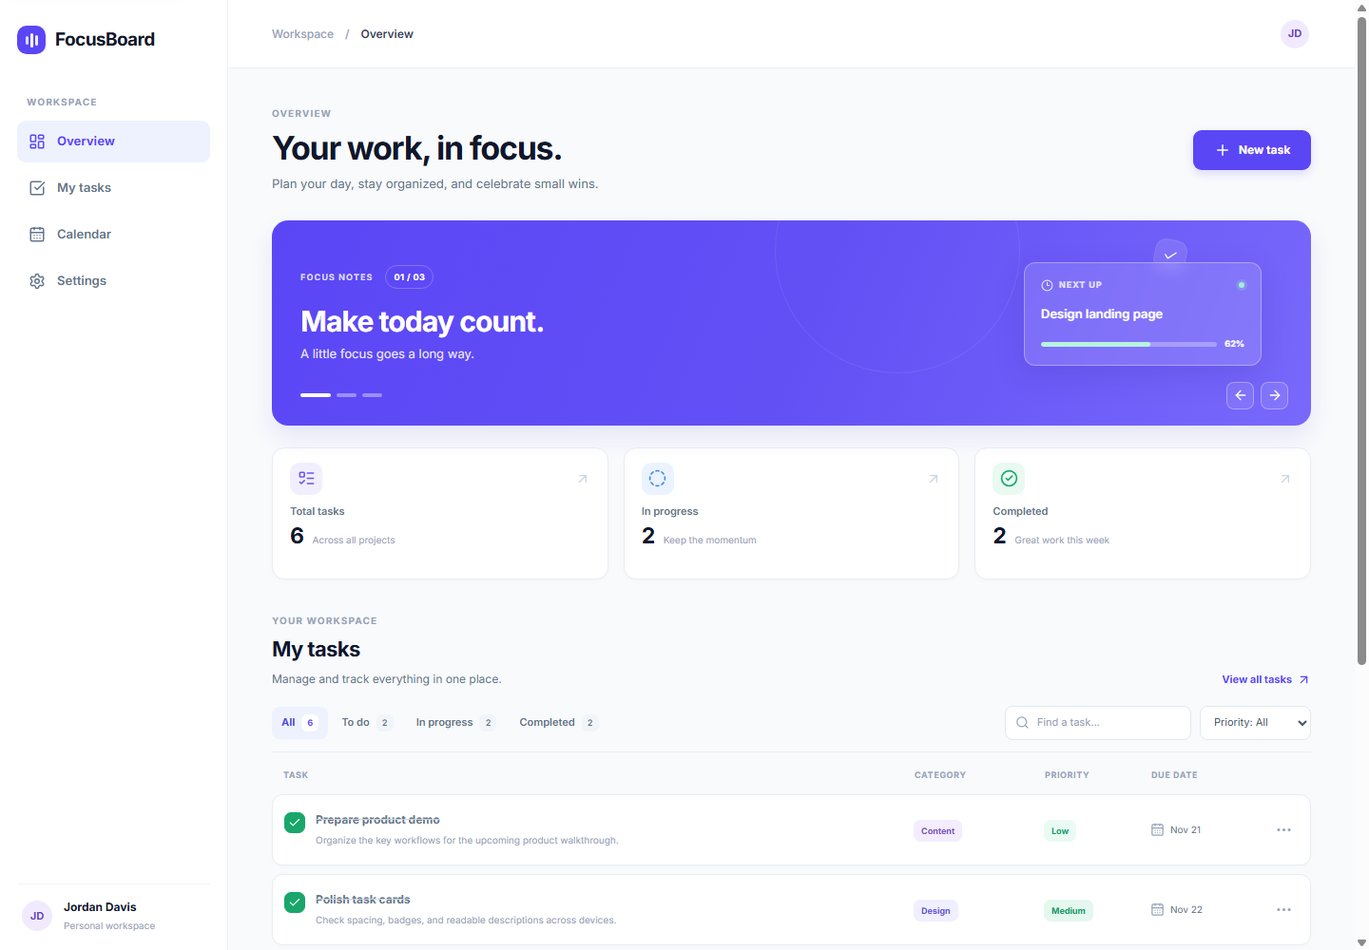
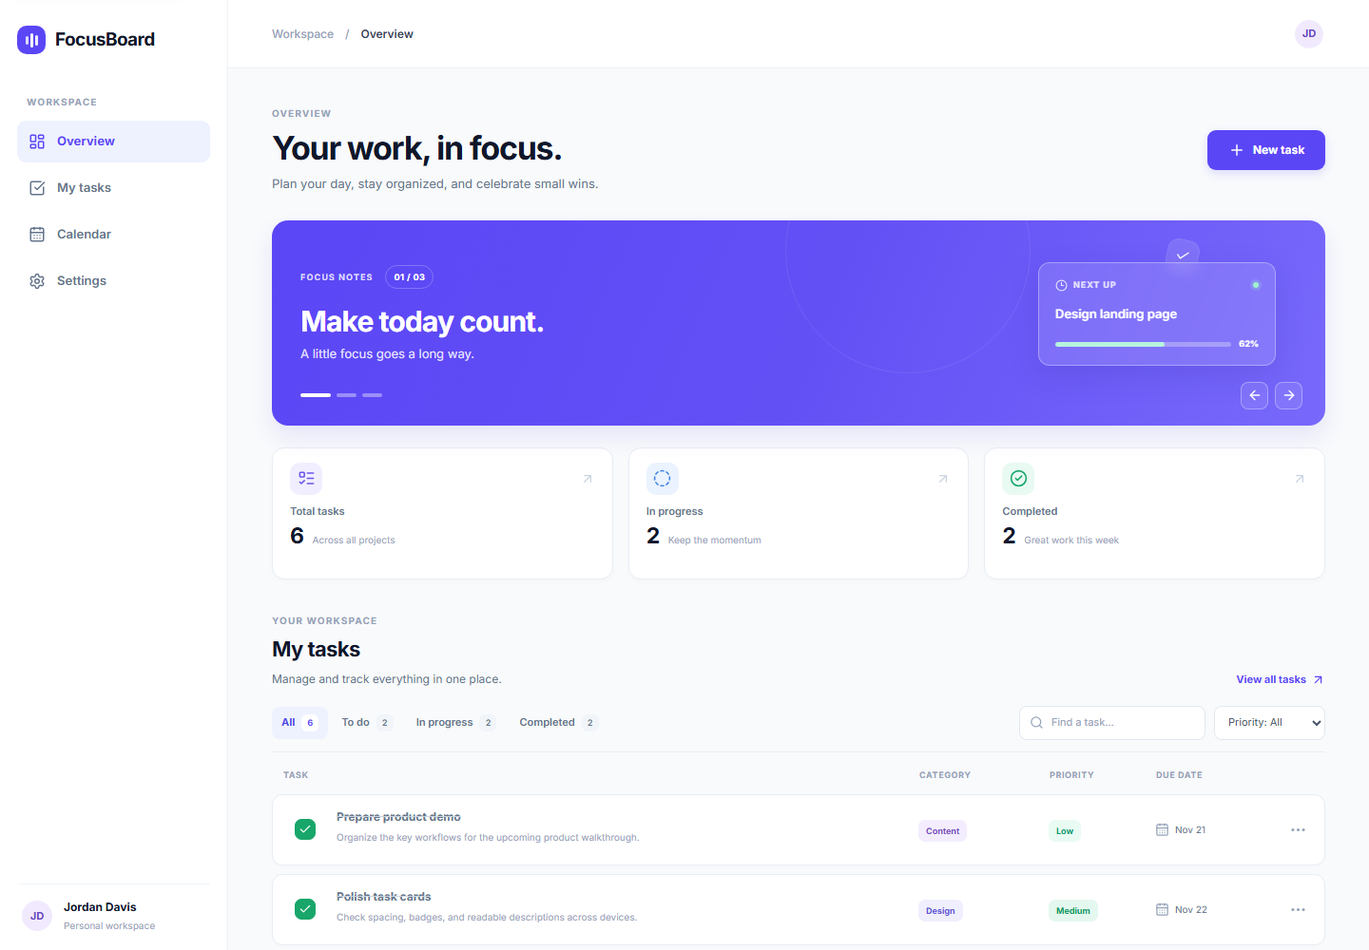
Improve dashboard accessibility and mobile controls

diff --git a/src/App.css b/src/App.css
@@ -122,13 +122,15 @@ button:focus-visible, input:focus-visible, textarea:focus-visible, select:focus-
 .search-field input::placeholder { color: #94a3b8; }
 .priority-field select { height: 100%; border: 0; border-radius: inherit; padding: 0 28px 0 10px; outline: none; background: #fff; color: #475569; font-size: 11px; }
 .task-list { padding-top: 4px; }
-.task-list-labels { display: grid; grid-template-columns: minmax(220px, 1fr) 125px 100px 110px 34px; align-items: center; gap: 12px; min-height: 40px; padding: 0 12px; color: #94a3b8; font-size: 9px; font-weight: 700; letter-spacing: .6px; text-transform: uppercase; }
-.task-row { position: relative; display: grid; grid-template-columns: minmax(220px, 1fr) 125px 100px 110px 34px; align-items: center; gap: 12px; min-height: 75px; border: 1px solid #e8edf4; border-radius: 11px; margin-bottom: 9px; padding: 11px 12px; background: #fff; box-shadow: 0 2px 5px #0f172a04; transition: border-color .16s ease, box-shadow .16s ease; }
+.task-list-labels { display: grid; grid-template-columns: minmax(220px, 1fr) 125px 100px 110px 44px; align-items: center; gap: 12px; min-height: 40px; padding: 0 12px; color: #94a3b8; font-size: 9px; font-weight: 700; letter-spacing: .6px; text-transform: uppercase; }
+.task-row { position: relative; display: grid; grid-template-columns: minmax(220px, 1fr) 125px 100px 110px 44px; align-items: center; gap: 12px; min-height: 75px; border: 1px solid #e8edf4; border-radius: 11px; margin-bottom: 9px; padding: 11px 12px; background: #fff; box-shadow: 0 2px 5px #0f172a04; transition: border-color .16s ease, box-shadow .16s ease; }
 .task-row:hover { border-color: #d7dded; box-shadow: 0 5px 14px #0f172a0b; }
 .task-main-cell { display: flex; min-width: 0; align-items: flex-start; gap: 11px; }
-.task-status-button { display: inline-flex; flex: 0 0 auto; width: 22px; height: 22px; align-items: center; justify-content: center; border: 1.5px solid #cbd5e1; border-radius: 7px; margin-top: 1px; background: #fff; color: #fff; transition: border-color .15s, background .15s; }
-.task-status-button:hover { border-color: #8b7cf6; background: #f5f3ff; }
-.task-status-button.is-completed { border-color: #18a66a; background: #18a66a; }
+.task-status-button { position: relative; display: inline-flex; flex: 0 0 44px; width: 44px; height: 44px; align-items: center; justify-content: center; border: 0; border-radius: 8px; background: transparent; color: #fff; }
+.task-status-button::before { position: absolute; width: 22px; height: 22px; border: 1.5px solid #cbd5e1; border-radius: 7px; background: #fff; content: ""; transition: border-color .15s, background .15s; }
+.task-status-button:hover::before { border-color: #8b7cf6; background: #f5f3ff; }
+.task-status-button.is-completed::before { border-color: #18a66a; background: #18a66a; }
+.task-status-button svg { position: relative; z-index: 1; }
 .task-copy { min-width: 0; }
 .task-copy strong { display: block; overflow: hidden; color: #1e293b; font-size: 12px; font-weight: 650; text-overflow: ellipsis; white-space: nowrap; }
 .task-copy p { overflow: hidden; margin: 5px 0 0; color: #94a3b8; font-size: 10px; line-height: 1.45; text-overflow: ellipsis; white-space: nowrap; }
@@ -145,9 +147,8 @@ button:focus-visible, input:focus-visible, textarea:focus-visible, select:focus-
 .task-due-cell svg { color: #94a3b8; }
 .task-action-cell { justify-self: end; }
 .task-menu { position: relative; }
-.task-menu summary { display: inline-flex; width: 32px; height: 32px; align-items: center; justify-content: center; border-radius: 8px; color: #94a3b8; cursor: pointer; list-style: none; }
-.task-menu summary::-webkit-details-marker { display: none; }
-.task-menu summary:hover, .task-menu[open] summary { background: #f1f5f9; color: #475569; }
+.task-menu-trigger { display: inline-flex; width: 32px; height: 32px; align-items: center; justify-content: center; border: 0; border-radius: 8px; background: transparent; color: #94a3b8; }
+.task-menu-trigger:hover, .task-menu-trigger[aria-expanded="true"] { background: #f1f5f9; color: #475569; }
 .task-menu-items { position: absolute; z-index: 4; top: calc(100% + 4px); right: 0; display: grid; width: 136px; gap: 2px; border: 1px solid #e2e8f0; border-radius: 9px; padding: 5px; background: #fff; box-shadow: 0 8px 24px #0f172a1a; }
 .task-menu-items button { min-height: 34px; border: 0; border-radius: 6px; padding: 0 9px; background: transparent; color: #334155; font-size: 11px; text-align: left; }
 .task-menu-items button:hover { background: #f8fafc; }
@@ -204,10 +205,15 @@ button:focus-visible, input:focus-visible, textarea:focus-visible, select:focus-
   .dashboard { padding-right: 30px; padding-left: 30px; }
   .focus-banner { padding-right: 24px; padding-left: 24px; }
   .focus-preview { width: 225px; margin-right: 12px; }
-  .task-list-labels, .task-row { grid-template-columns: minmax(190px, 1fr) 105px 82px 95px 32px; gap: 8px; }
+  .task-list-labels, .task-row { grid-template-columns: minmax(190px, 1fr) 105px 82px 95px 44px; gap: 8px; }
   .task-toolbar { align-items: stretch; flex-direction: column; gap: 9px; }
   .task-filters { justify-content: flex-end; }
-  .search-field { width: min(100%, 260px); }
+  .search-field { width: min(100%, 260px); height: 44px; }
+  .priority-field { height: 44px; }
+  .task-tabs button { min-height: 44px; }
+  .focus-controls button { width: 44px; height: 44px; }
+  .task-menu-trigger { width: 44px; height: 44px; }
+  .new-task-button { min-height: 44px; }
 }
 
 @media (max-width: 700px) {
@@ -219,7 +225,7 @@ button:focus-visible, input:focus-visible, textarea:focus-visible, select:focus-
   .mobile-header .brand-symbol { width: 28px; height: 28px; border-radius: 9px; }
   .mobile-header .avatar { width: 33px; height: 33px; }
   .mobile-navigation { position: fixed; z-index: 15; right: 0; bottom: 0; left: 0; display: grid; grid-template-columns: repeat(4, 1fr); min-height: calc(64px + env(safe-area-inset-bottom)); padding: 5px 8px env(safe-area-inset-bottom); border-top: 1px solid #e9edf3; background: #fffffffa; box-shadow: 0 -7px 20px #0f172a08; backdrop-filter: blur(12px); }
-  .mobile-nav-link { position: relative; display: flex; min-width: 0; flex-direction: column; align-items: center; justify-content: center; gap: 3px; border: 0; border-radius: 9px; background: transparent; color: #94a3b8; font-size: 9px; font-weight: 550; }
+  .mobile-nav-link { position: relative; display: flex; width: 100%; min-width: 0; min-height: 44px; flex-direction: column; align-items: center; justify-content: center; gap: 3px; border: 0; border-radius: 9px; background: transparent; color: #94a3b8; font-size: 9px; font-weight: 550; }
   .mobile-nav-link.is-active { color: var(--brand); }
   .mobile-nav-link.is-active::before { position: absolute; top: -5px; width: 24px; height: 3px; border-radius: 0 0 5px 5px; background: var(--brand); content: ""; }
   .dashboard { padding: 27px 18px 22px; }
@@ -227,7 +233,7 @@ button:focus-visible, input:focus-visible, textarea:focus-visible, select:focus-
   .hero .eyebrow { margin-bottom: 7px; font-size: 9px; }
   .hero h1 { max-width: 240px; font-size: 25px; letter-spacing: -.8px; }
   .hero-subtitle { max-width: 250px; margin-top: 7px; font-size: 11px; line-height: 1.5; }
-  .new-task-button { width: 42px; min-width: 42px; height: 42px; min-height: 42px; padding: 0; border-radius: 12px; }
+  .new-task-button { width: 44px; min-width: 44px; height: 44px; min-height: 44px; padding: 0; border-radius: 12px; }
   .new-task-button span { display: none; }
   .focus-banner { display: block; min-height: 210px; border-radius: 15px; padding: 20px 19px 48px; }
   .focus-banner-content { width: 100%; }
@@ -241,11 +247,12 @@ button:focus-visible, input:focus-visible, textarea:focus-visible, select:focus-
   .mobile-progress-copy { display: flex; justify-content: space-between; margin-bottom: 8px; color: #e5e2ff; font-size: 9px; }
   .mobile-progress-copy strong { color: #fff; font-weight: 650; }
   .progress-track { height: 5px; }
-  .focus-banner-bottom { right: 16px; bottom: 12px; left: 19px; }
-  .focus-controls { gap: 5px; }
-  .focus-controls button { width: 29px; height: 29px; border-radius: 9px; }
-  .focus-indicators button { width: 18px; }
-  .focus-indicators button.active { width: 28px; }
+  .focus-banner-bottom { right: 12px; bottom: 4px; left: 12px; }
+  .focus-controls { gap: 2px; }
+  .focus-controls button { width: 44px; height: 44px; border-radius: 9px; }
+  .focus-indicators button { position: relative; width: 44px; height: 44px; background: transparent; }
+  .focus-indicators button::before { position: absolute; top: 20px; left: 13px; width: 18px; height: 4px; border-radius: 5px; background: #ffffff62; content: ""; }
+  .focus-indicators button.active::before { left: 8px; width: 28px; background: #fff; }
   .stats-grid { grid-template-columns: repeat(2, minmax(0, 1fr)); gap: 10px; margin: 16px 0 29px; }
   .stat-card { min-height: 128px; padding: 12px 13px; }
   .stat-icon { width: 31px; height: 31px; border-radius: 9px; }
@@ -260,19 +267,18 @@ button:focus-visible, input:focus-visible, textarea:focus-visible, select:focus-
   .text-button svg { width: 13px; }
   .task-toolbar { display: flex; flex-direction: column-reverse; align-items: stretch; gap: 12px; padding-bottom: 11px; }
   .task-filters { display: grid; grid-template-columns: minmax(0, 1fr) 125px; gap: 8px; }
-  .search-field, .priority-field { height: 39px; }
+  .search-field, .priority-field { height: 44px; }
   .search-field { width: auto; }
   .search-field input { font-size: 11px; }
   .priority-field select { width: 100%; font-size: 10px; }
   .task-tabs { gap: 3px; overflow-x: auto; scrollbar-width: none; }
   .task-tabs::-webkit-scrollbar { display: none; }
-  .task-tabs button { min-height: 34px; flex: 0 0 auto; gap: 5px; padding: 0 8px; font-size: 9px; }
+  .task-tabs button { min-height: 44px; flex: 0 0 auto; gap: 5px; padding: 0 8px; font-size: 9px; }
   .task-tabs button span { min-width: 17px; height: 17px; font-size: 8px; }
   .task-list { padding-top: 11px; }
   .task-list-labels { display: none; }
   .task-row { grid-template-columns: minmax(0, 1fr) auto; grid-template-areas: "main action" "category priority" "due due"; gap: 11px 8px; min-height: 0; margin-bottom: 9px; padding: 13px 12px 12px; border-radius: 11px; }
   .task-main-cell { grid-area: main; align-items: flex-start; gap: 9px; }
-  .task-status-button { width: 22px; height: 22px; }
   .task-copy strong { font-size: 11px; line-height: 1.4; white-space: normal; }
   .task-copy p { display: -webkit-box; max-width: 260px; margin-top: 4px; overflow: hidden; font-size: 9px; line-height: 1.45; white-space: normal; -webkit-box-orient: vertical; -webkit-line-clamp: 2; }
   .mobile-task-status { display: block; margin-top: 5px; color: #94a3b8; font-size: 9px; }
@@ -280,7 +286,8 @@ button:focus-visible, input:focus-visible, textarea:focus-visible, select:focus-
   .task-priority-cell { grid-area: priority; justify-self: start; }
   .task-due-cell { grid-area: due; padding-top: 2px; font-size: 9px; }
   .task-action-cell { grid-area: action; align-self: start; }
-  .task-menu summary { width: 30px; height: 30px; }
+  .task-menu-trigger { width: 44px; height: 44px; }
+  .task-menu-items button { min-height: 44px; }
   .category-badge, .priority-badge { min-height: 22px; font-size: 9px; }
   .empty-tasks { padding: 36px 10px; }
   .empty-tasks p { max-width: 240px; line-height: 1.5; }
@@ -290,12 +297,13 @@ button:focus-visible, input:focus-visible, textarea:focus-visible, select:focus-
   .modal-backdrop { align-items: end; padding: 0; }
   .task-modal, .confirm-modal { width: 100%; max-height: 92dvh; border-radius: 18px 18px 0 0; padding: 21px 19px calc(17px + env(safe-area-inset-bottom)); }
   .task-modal .modal-header { margin-bottom: 13px; }
+  .modal-close { width: 44px; height: 44px; }
   .task-modal .form-label { margin-top: 12px; }
-  .task-modal form > input, .task-modal textarea, .task-modal select, .modal-field-grid input, .modal-field-grid select { min-height: 42px; font-size: 12px; }
+  .task-modal form > input, .task-modal textarea, .task-modal select, .modal-field-grid input, .modal-field-grid select { min-height: 44px; font-size: 12px; }
   .task-modal textarea { min-height: 75px; }
   .modal-field-grid { column-gap: 10px; }
   .modal-actions { margin-top: 17px; }
-  .modal-actions .primary-button, .modal-actions .secondary-button { min-height: 42px; }
+  .modal-actions .primary-button, .modal-actions .secondary-button { min-height: 44px; }
 }
 
 @media (prefers-reduced-motion: reduce) {

diff --git a/src/pages/Dashboard.jsx b/src/pages/Dashboard.jsx
@@ -1,4 +1,4 @@
-import { useMemo } from 'react'
+import { useMemo, useRef } from 'react'
 import { ArrowUpRight, CheckCircle2, CircleDashed, ListTodo, Plus, Search, Sparkles } from 'lucide-react'
 import { useTaskContext } from '../context/useTaskContext'
 import FocusNotesCarousel from '../components/FocusNotesCarousel'
@@ -7,6 +7,7 @@ import TaskList from '../components/TaskList'
 const TABS = ['All', 'To do', 'In progress', 'Completed']
 
 export default function Dashboard({ onAddTask, onEditTask, onDeleteTask }) {
+  const tabRefs = useRef([])
   const {
     tasks,
     dispatch,
@@ -38,6 +39,18 @@ export default function Dashboard({ onAddTask, onEditTask, onDeleteTask }) {
     setPriorityFilter('All')
   }
 
+  const handleTabKeyDown = (event, index) => {
+    let nextIndex = index
+    if (event.key === 'ArrowRight') nextIndex = (index + 1) % TABS.length
+    else if (event.key === 'ArrowLeft') nextIndex = (index - 1 + TABS.length) % TABS.length
+    else if (event.key === 'Home') nextIndex = 0
+    else if (event.key === 'End') nextIndex = TABS.length - 1
+    else return
+    event.preventDefault()
+    setStatusFilter(TABS[nextIndex])
+    tabRefs.current[nextIndex]?.focus()
+  }
+
   const changeStatus = (id, status) => dispatch({ type: 'UPDATE_STATUS', payload: { id, status } })
   const stats = [
     { title: 'Total tasks', count: totalCount, supporting: 'Across all projects', icon: ListTodo, tone: 'purple' },
@@ -53,7 +66,7 @@ export default function Dashboard({ onAddTask, onEditTask, onDeleteTask }) {
           <h1>Your work, in focus.</h1>
           <p className="hero-subtitle">Plan your day, stay organized, and celebrate small wins.</p>
         </div>
-        <button type="button" className="primary-button new-task-button" onClick={onAddTask}>
+        <button type="button" className="primary-button new-task-button" onClick={onAddTask} aria-label="New task">
           <Plus size={18} aria-hidden="true" /><span>New task</span>
         </button>
       </section>
@@ -75,7 +88,7 @@ export default function Dashboard({ onAddTask, onEditTask, onDeleteTask }) {
         <header className="tasks-section-heading">
           <div>
             <p className="eyebrow">YOUR WORKSPACE</p>
-            <h2 id="tasks-title">My tasks</h2>
+            <h2 id="tasks-title" tabIndex={-1}>My tasks</h2>
             <p>Manage and track everything in one place.</p>
           </div>
           <button type="button" className="text-button" onClick={resetFilters}>View all tasks <ArrowUpRight size={15} /></button>
@@ -89,12 +102,17 @@ export default function Dashboard({ onAddTask, onEditTask, onDeleteTask }) {
                 : tasks.filter(task => task.status === tab).length
               return (
                 <button
+                  ref={element => { tabRefs.current[TABS.indexOf(tab)] = element }}
                   type="button"
                   role="tab"
                   key={tab}
+                  id={`task-filter-tab-${TABS.indexOf(tab)}`}
+                  aria-controls="task-list-panel"
                   aria-selected={statusFilter === tab}
+                  tabIndex={statusFilter === tab ? 0 : -1}
                   className={statusFilter === tab ? 'is-selected' : ''}
                   onClick={() => setStatusFilter(tab)}
+                  onKeyDown={event => handleTabKeyDown(event, TABS.indexOf(tab))}
                 >
                   {tab}<span>{count}</span>
                 </button>
@@ -127,6 +145,7 @@ export default function Dashboard({ onAddTask, onEditTask, onDeleteTask }) {
 
         <TaskList
           tasks={visibleTasks}
+          activeTabId={`task-filter-tab-${TABS.indexOf(statusFilter)}`}
           onEdit={onEditTask}
           onDelete={onDeleteTask}
           onUpdateStatus={changeStatus}

diff --git a/src/test/App.test.jsx b/src/test/App.test.jsx
@@ -32,6 +32,11 @@ describe('FocusBoard dashboard', () => {
     await user.type(screen.getByLabelText('Title *'), 'Audit test coverage')
     await user.click(screen.getByRole('button', { name: 'Create task', exact: true }))
     expect(await screen.findByText('Audit test coverage')).toBeInTheDocument()
+    await waitFor(() => {
+      expect(JSON.parse(window.localStorage.getItem('focusboard_tasks'))).toEqual(
+        expect.arrayContaining([expect.objectContaining({ title: 'Audit test coverage' })]),
+      )
+    })
   })
 
   it('edits a task and deletes it only after confirmation', async () => {
@@ -39,7 +44,13 @@ describe('FocusBoard dashboard', () => {
     render(<App />)
 
     const row = within(document.querySelector('.task-list')).getByText('Design landing page').closest('article')
-    await user.click(row.querySelector('summary'))
+    const actions = within(row).getByRole('button', { name: 'Actions for Design landing page' })
+    await user.click(actions)
+    expect(actions).toHaveAttribute('aria-expanded', 'true')
+    await user.keyboard('{Escape}')
+    expect(actions).toHaveAttribute('aria-expanded', 'false')
+    expect(actions).toHaveFocus()
+    await user.click(actions)
     await user.click(within(row).getByRole('button', { name: 'Edit task' }))
     const title = screen.getByLabelText('Title *')
     await user.clear(title)
@@ -48,7 +59,7 @@ describe('FocusBoard dashboard', () => {
     expect(await within(document.querySelector('.task-list')).findByText('Landing page refresh')).toBeInTheDocument()
 
     const editedRow = within(document.querySelector('.task-list')).getByText('Landing page refresh').closest('article')
-    await user.click(editedRow.querySelector('summary'))
+    await user.click(within(editedRow).getByRole('button', { name: 'Actions for Landing page refresh' }))
     await user.click(within(editedRow).getByRole('button', { name: 'Delete task' }))
     expect(screen.getByRole('alertdialog')).toBeInTheDocument()
     await user.click(screen.getByRole('button', { name: 'Move to deleted' }))
@@ -75,6 +86,11 @@ describe('FocusBoard dashboard', () => {
     expect(within(task).getByText('In progress')).toBeInTheDocument()
     await user.click(within(task).getByRole('button', { name: /Current status In progress/ }))
     expect(within(task).getByRole('button', { name: /Current status Completed/ })).toBeInTheDocument()
+    await waitFor(() => {
+      expect(JSON.parse(window.localStorage.getItem('focusboard_tasks'))).toEqual(
+        expect.arrayContaining([expect.objectContaining({ id: 'review-onboarding-copy', status: 'Completed' })]),
+      )
+    })
 
     const overview = screen.getByRole('region', { name: 'Task overview' })
     expect(within(overview).getByText('3')).toBeInTheDocument()
@@ -91,6 +107,17 @@ describe('FocusBoard dashboard', () => {
     expect(within(carousel).getByRole('heading', { name: 'A clear plan makes deep work easier.' })).toBeInTheDocument()
     await user.click(within(carousel).getByRole('button', { name: 'Next slide' }))
     expect(within(carousel).getByRole('heading', { name: 'Small steps create meaningful momentum.' })).toBeInTheDocument()
+  })
+
+  it('moves between status tabs using arrow keys', async () => {
+    const user = userEvent.setup()
+    render(<App />)
+    const allTab = screen.getByRole('tab', { name: /All/ })
+    allTab.focus()
+    await user.keyboard('{ArrowRight}')
+    expect(screen.getByRole('tab', { name: /To do/ })).toHaveAttribute('aria-selected', 'true')
+    await user.keyboard('{End}')
+    expect(screen.getByRole('tab', { name: /Completed/ })).toHaveFocus()
   })
 
   it('opens the modal with Escape and exposes Calendar and Settings placeholders', async () => {

diff --git a/src/components/TaskCard.jsx b/src/components/TaskCard.jsx
@@ -1,3 +1,4 @@
+import { useEffect, useRef, useState } from 'react'
 import { CalendarDays, Check, MoreHorizontal } from 'lucide-react'
 
 const NEXT_STATUS = {
@@ -15,11 +16,28 @@ function formatDueDate(value) {
 }
 
 export default function TaskCard({ task, onUpdateStatus, onEdit, onDelete }) {
+  const [menuOpen, setMenuOpen] = useState(false)
+  const actionRef = useRef(null)
   const categoryClass = task.category.toLowerCase().replace(/[^a-z0-9]+/g, '-')
 
-  const closeMenu = event => {
-    event.currentTarget.closest('details')?.removeAttribute('open')
-  }
+  useEffect(() => {
+    if (!menuOpen) return undefined
+    const closeOnOutsideClick = event => {
+      if (!actionRef.current?.contains(event.target)) setMenuOpen(false)
+    }
+    const closeOnEscape = event => {
+      if (event.key === 'Escape') {
+        setMenuOpen(false)
+        actionRef.current?.querySelector('button')?.focus()
+      }
+    }
+    document.addEventListener('pointerdown', closeOnOutsideClick)
+    document.addEventListener('keydown', closeOnEscape)
+    return () => {
+      document.removeEventListener('pointerdown', closeOnOutsideClick)
+      document.removeEventListener('keydown', closeOnEscape)
+    }
+  }, [menuOpen])
 
   return (
     <article className={`task-row ${task.status === 'Completed' ? 'task-completed' : ''}`}>
@@ -45,13 +63,25 @@ export default function TaskCard({ task, onUpdateStatus, onEdit, onDelete }) {
         <CalendarDays size={15} aria-hidden="true" />{formatDueDate(task.dueDate)}
       </time>
       <div className="task-action-cell">
-        <details className="task-menu">
-          <summary aria-label={`Actions for ${task.title}`} title="Task actions"><MoreHorizontal size={19} /></summary>
-          <div className="task-menu-items" aria-label={`${task.title} actions`}>
-            <button type="button" onClick={event => { closeMenu(event); onEdit(task) }}>Edit task</button>
-            <button type="button" className="menu-delete" onClick={event => { closeMenu(event); onDelete(task) }}>Delete task</button>
-          </div>
-        </details>
+        <div className="task-menu" ref={actionRef}>
+          <button
+            type="button"
+            className="task-menu-trigger"
+            aria-label={`Actions for ${task.title}`}
+            aria-expanded={menuOpen}
+            aria-controls={menuOpen ? `task-actions-${task.id}` : undefined}
+            title="Task actions"
+            onClick={() => setMenuOpen(open => !open)}
+          >
+            <MoreHorizontal size={19} />
+          </button>
+          {menuOpen && (
+            <div className="task-menu-items" id={`task-actions-${task.id}`} aria-label={`${task.title} actions`}>
+              <button type="button" onClick={() => { setMenuOpen(false); onEdit(task) }}>Edit task</button>
+              <button type="button" className="menu-delete" onClick={() => onDelete(task)}>Delete task</button>
+            </div>
+          )}
+        </div>
       </div>
     </article>
   )

diff --git a/src/components/TaskList.jsx b/src/components/TaskList.jsx
@@ -1,9 +1,9 @@
 import { CalendarDays, ListTodo, Plus } from 'lucide-react'
 import TaskCard from './TaskCard'
 
-export default function TaskList({ tasks, onEdit, onDelete, onUpdateStatus, onAdd, onReset }) {
+export default function TaskList({ tasks, activeTabId, onEdit, onDelete, onUpdateStatus, onAdd, onReset }) {
   return (
-    <div className="task-list" aria-live="polite">
+    <div className="task-list" id="task-list-panel" role="tabpanel" aria-labelledby={activeTabId} tabIndex={0} aria-live="polite">
       {tasks.length > 0 && (
         <div className="task-list-labels" aria-hidden="true">
           <span>Task</span><span>Category</span><span>Priority</span><span>Due date</span><span />

diff --git a/src/components/FocusNotes.jsx b/src/components/FocusNotes.jsx
@@ -13,8 +13,14 @@ export default function FocusNotes({ tasks = [], pendingCount = 0, completionPer
       aria-label="Focus Notes carousel"
       tabIndex={0}
       onKeyDown={event => {
-        if (event.key === 'ArrowLeft') changeSlide(-1)
-        if (event.key === 'ArrowRight') changeSlide(1)
+        if (event.key === 'ArrowLeft') {
+          event.preventDefault()
+          changeSlide(-1)
+        }
+        if (event.key === 'ArrowRight') {
+          event.preventDefault()
+          changeSlide(1)
+        }
       }}
     >
       <div className="focus-banner-content" aria-live="polite">

diff --git a/src/App.jsx b/src/App.jsx
@@ -159,6 +159,7 @@ function FocusBoardApp() {
             setDeleteTarget(null)
             setToast('Task deleted')
             window.setTimeout(() => setToast(''), 2400)
+            window.setTimeout(() => document.getElementById('tasks-title')?.focus(), 0)
           }}
         />
       )}

diff --git a/AI_USAGE.md b/AI_USAGE.md
@@ -19,4 +19,4 @@
 
 ## Review and verification
 
-The implementation was reviewed against the assessment requirements. A potential issue where malformed saved data could be replaced by sample tasks was corrected: sample data is seeded only when the task key is absent, and a valid saved empty list remains empty. The task form was also checked to ensure only the title is required, with due date optional. The automated test suite (18 tests), lint, and production build passed. Browser checks at 390px, 768px, and 1440px confirmed the responsive navigation and no horizontal overflow.
+The implementation was reviewed against the assessment requirements. A potential issue where malformed saved data could be replaced by sample tasks was corrected: sample data is seeded only when the task key is absent, and a valid saved empty list remains empty. The task form was also checked to ensure only the title is required, with due date optional. The automated test suite (19 tests), lint, and production build passed. Browser checks at 390px, 768px, and 1440px confirmed the responsive navigation and no horizontal overflow; keyboard navigation and mobile control sizes were checked as well.
